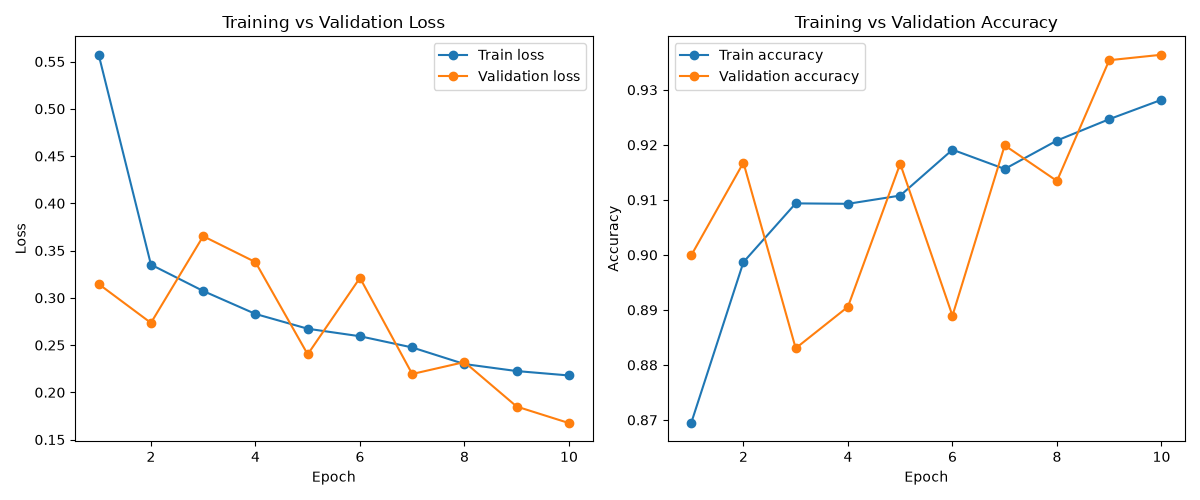
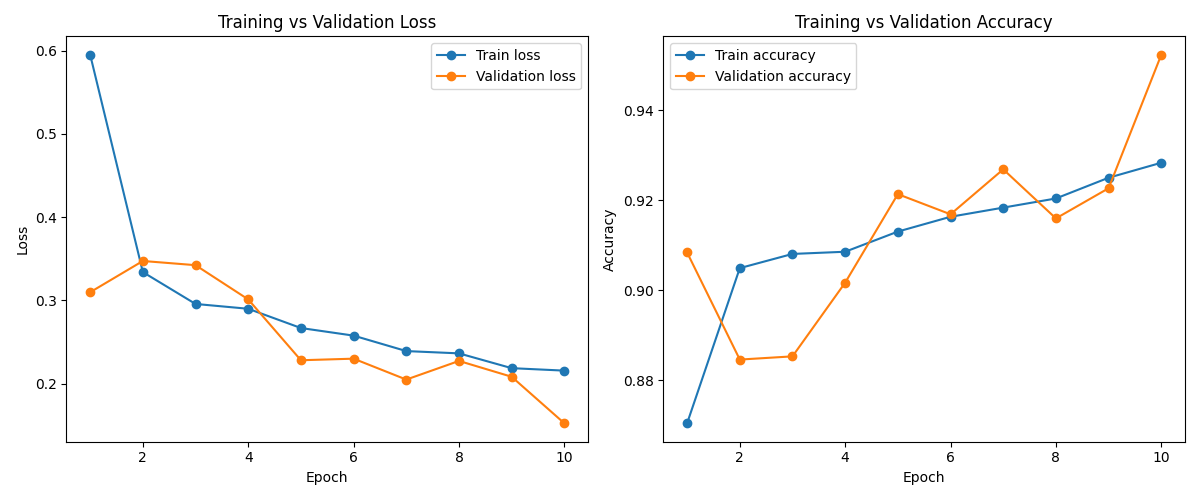
refactor: use argparse instead of interactive input() in evaluate.py
Matches predict.py's CLI style and lets evaluate.py run non-interactively.

diff --git a/src/evaluate.py b/src/evaluate.py
@@ -1,16 +1,20 @@
+import argparse
 import os
 import json
 import numpy as np
 import matplotlib.pyplot as plt
-from tensorflow.keras.models import load_model 
+from tensorflow.keras.models import load_model
 from sklearn.metrics import confusion_matrix, classification_report
+
+parser = argparse.ArgumentParser(description="Evaluate a saved IDS model on the test set")
+parser.add_argument("--model", default="Model", help="Model name under models/ to evaluate (default: Model)")
+args = parser.parse_args()
 
 X_test = np.load("data/X_test.npy")
 y_test = np.load("data/y_test.npy")
 target_names=['dos', 'normal', 'probe', 'r2l', 'u2r']
 
-model_name = input("Enter the name of the model that you want to evaluate: ")
-model = load_model(f"models/{model_name}.keras")
+model = load_model(f"models/{args.model}.keras")
 
 y_pred = model.predict(X_test)
 cm = confusion_matrix(y_test, y_pred.argmax(axis=1))
